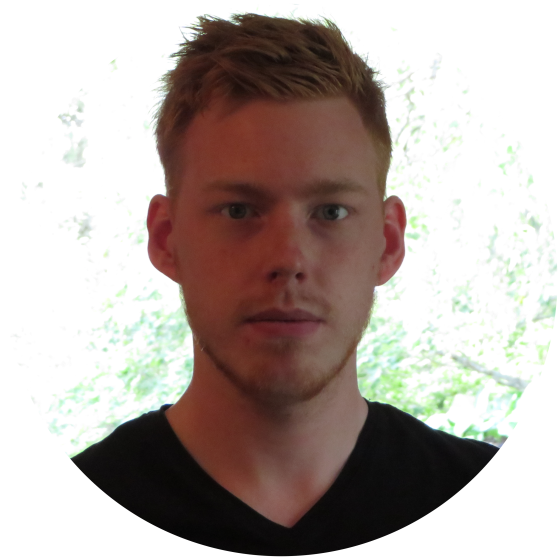
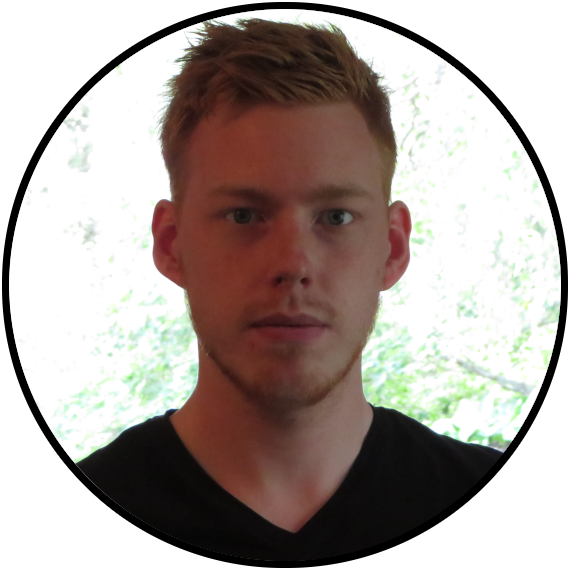
Add introduction section

diff --git a/src/index.js b/src/index.js
@@ -1,21 +1,33 @@
 import React from 'react';
-import profileSrc from './profile.png';
-import midiSrc from './midi.png';
 import ReactDOM from 'react-dom';
 import './index.css';
+import profileSrc from './profile.png';
+import midiSrc from './midi.png';
+import treeSrc from './trees_fade.png';
+
[1 lines of base64/hex data omitted]
+const introSection = 
+<div class="centered">
+    <img src={treeSrc} className = "fillwidth"/>
+    <p className = "largetext textcentered20">Welcome.</p>
+</div>
 
 const midiText = <p>Test</p>;
-const midiImage = <img src={midiSrc} id="midiimage"/>
+const midiImage = <img src={midiSrc} className="fillwidth"/>
 
+const footer = 
+<div class="footer">
+    <p className = "smalltext textcentered40">E-mail me at elias.alesand@gmail.com.</p>
+</div>
[1 lines of base64/hex data omitted]
 function Header(){
     return (
         <div className="header">
-            <img src={profileSrc} width="250" height="250" id="profileimage"/>
+            <img src={profileSrc} width="250" id="profileimage"/>
         </div>
     );
 }
-
-function ContentEntry(props){
+function SplitContentEntry(props){
     return (
         <div className = "contententry">
             <div className="contentsplit left">{props.left}</div>
@@ -24,22 +36,23 @@ function ContentEntry(props){
         
     );
 }
-
+function SingleContentEntry(props){
+    return (
+        <div className = "contententry">{props.content}</div> 
+    );
+}
+//=================COMPILING THE FINAL PAGE=============================
 function Page() {
     return (
-        <div>
+        <div id = "page">
             <Header />
-            <ContentEntry left={midiImage} right = {midiText}/>
-            <ContentEntry left={midiText} right = {midiImage}/>
-            
+            <SingleContentEntry content={introSection}/>
+            <SingleContentEntry content={footer}/>
         </div>
     );
 }
-
 ReactDOM.render(
     <Page />,
     document.getElementById('root')
 );
-
 document.title = "Elias Alesand | Welcome";
-

diff --git a/src/index.css b/src/index.css
@@ -1,38 +1,74 @@
+#page{
+  margin-left: -8px;
+  margin-right: -8px;
+}
+
 #title{
   text-align: left;
   float: left;
 }
-#midiimage{
-  width: 100%;
+
+#profileimage{
+  width: 250px;
 }
 
 .header{
-  background: rgb(100, 146, 131);
-  font-size: 24px;
-  font-weight: bold;
-  line-height: 34px;
-  margin-left: -8px;
-  margin-right: -8px;
+  background: rgb(0, 0, 0);
   margin-top: -8px;
   height: 150px;
   text-align: center;
 }
 
+.footer{
+  background: rgb(99, 99, 99);
+  height: 80px;
+  text-align: center;
+  color: white; 
+  margin-top: -24px;
+  position: relative; 
+}
+
 .left {
   float: left;
-  background-color: #111;
 }
 
 .right {
   float: right;
-  background-color: red;
 }
-
 .contentsplit {
   width: 50%;
 }
-
 .contententry {
   width: 100%;
   overflow: auto;
+}
+.centered {
+  text-align: center;
+  position: relative;
+}
+.largetext{
+  font-size: 48px;
+  font-family: roboto;
+}
+.smalltext{
+  font-size: 16px;
+  font-family: roboto;
+  vertical-align: 
+}
+.fillwidth{
+  width: 100%;
+  margin-bottom: -4px;
+}
+.textcentered20 {
+  position: absolute;
+  top: 20%;
+  left: 50%;
+  transform: translate(-50%, -50%);
+}
+
+.textcentered40 {
+  position: absolute;
+  top: 40%;
+  left: 50%;
+  transform: translate(-50%, -50%);
 }

diff --git a/public/index.html b/public/index.html
@@ -3,6 +3,7 @@
   <head>
     <meta charset="utf-8" />
     <link rel="shortcut icon" href="%PUBLIC_URL%/favicon.ico" />
+    <link href="https://fonts.googleapis.com/css?family=Roboto" rel="stylesheet">
     <meta
       name="viewport"
       content="width=device-width, initial-scale=1, shrink-to-fit=no"
